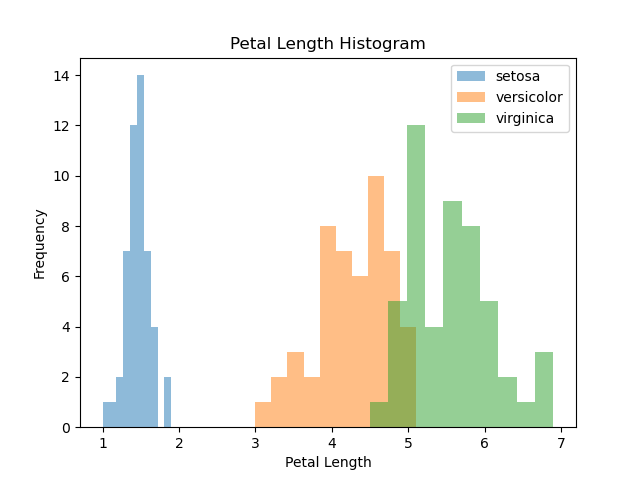
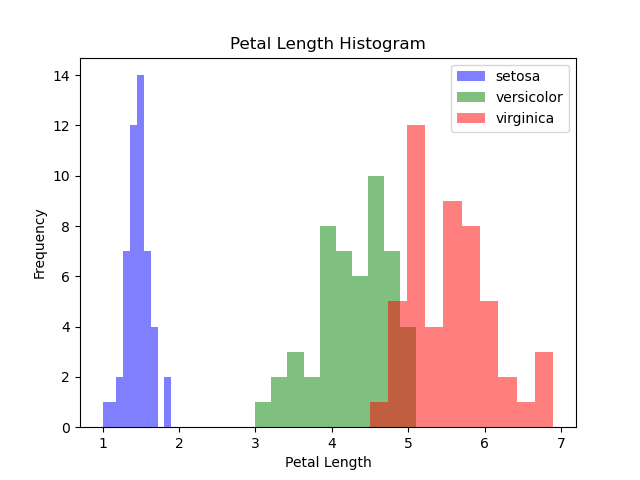
completing analysis

Changed region(s): [[0.375, 0.25, 0.875, 0.9062], [0.1562, 0.1562, 0.2812, 0.9062], [0.7188, 0.125, 0.7812, 0.2812]]

diff --git a/analysis.py b/analysis.py
@@ -47,9 +47,9 @@ versicolor = df[df['class'] == 'Iris-versicolor']['sepal_length']
 virginica = df[df['class'] == 'Iris-virginica']['sepal_length']
 
 # plot histogram
-plt.hist(setosa, alpha=0.5, label='setosa')
-plt.hist(versicolor, alpha=0.5, label='versicolor')
-plt.hist(virginica, alpha=0.5, label='virginica')
+plt.hist(setosa, color='blue', alpha=0.5, label='setosa')
+plt.hist(versicolor, color='green', alpha=0.5, label='versicolor')
+plt.hist(virginica, color='red', alpha=0.5, label='virginica')
 
 plt.legend(loc='upper right')
 plt.title('Sepal Length Histogram')
@@ -65,9 +65,9 @@ versicolor = df[df['class'] == 'Iris-versicolor']['sepal_width']
 virginica = df[df['class'] == 'Iris-virginica']['sepal_width']
 
 # plot histogram
-plt.hist(setosa, alpha=0.5, label='setosa')
-plt.hist(versicolor, alpha=0.5, label='versicolor')
-plt.hist(virginica, alpha=0.5, label='virginica')
+plt.hist(setosa, color='blue', alpha=0.5, label='setosa')
+plt.hist(versicolor, color='green', alpha=0.5, label='versicolor')
+plt.hist(virginica, color='red', alpha=0.5, label='virginica')
 
 plt.legend(loc='upper right')
 plt.title('Sepal Width Histogram')
@@ -84,9 +84,9 @@ versicolor = df[df['class'] == 'Iris-versicolor']['petal_length']
 virginica = df[df['class'] == 'Iris-virginica']['petal_length']
 
 # plot histogram
-plt.hist(setosa, alpha=0.5, label='setosa')
-plt.hist(versicolor, alpha=0.5, label='versicolor')
-plt.hist(virginica, alpha=0.5, label='virginica')
+plt.hist(setosa, color='blue', alpha=0.5, label='setosa')
+plt.hist(versicolor, color='green', alpha=0.5, label='versicolor')
+plt.hist(virginica, color='red', alpha=0.5, label='virginica')
 
 plt.legend(loc='upper right')
 plt.title('Petal Length Histogram')
@@ -103,9 +103,9 @@ versicolor = df[df['class'] == 'Iris-versicolor']['petal_width']
 virginica = df[df['class'] == 'Iris-virginica']['petal_width']
 
 # plot histogram
-plt.hist(setosa, alpha=0.5, label='setosa')
-plt.hist(versicolor, alpha=0.5, label='versicolor')
-plt.hist(virginica, alpha=0.5, label='virginica')
+plt.hist(setosa, color ='blue', alpha=0.5, label='setosa')
+plt.hist(versicolor, color='green', alpha=0.5, label='versicolor')
+plt.hist(virginica, color='red', alpha=0.5, label='virginica')
 
 plt.legend(loc='upper right')
 plt.title('Petal Width Histogram')
@@ -248,8 +248,15 @@ plt.legend(loc='upper right')
 
 plt.show()
 
-# Generating a pairwise scatter plot with Seaborn to achieve a global overview of all 6 combinations of the 2 dimensions graphs
+# Pairwise scatter plots generated with Seaborn to achieve a global overview of all 6 combinations of the 2 dimensions graphs
+# using a whitegrid pattern to establish a discrimination principle between iris virginica and iris versicolor
 
 sns.set_style("whitegrid")
-sns.pairplot(df, hue="class", height=1.5)
+sns.pairplot(df, hue="class", palette= ["blue","green","red"], markers=["o","s","*"], height=1.5)
 plt.show()
+
+# Scatter plot based on petal length and width show a weaker correlation between iris virginica and iris versicolor
+# Using measures on y, x axis and lines drawn on the above said scatterplot
+# we can build a simple model through if-else conditions to classify the flower types:
+# IF PETAL WIDTH IS ≤ TO 2 CM AND ≥ THAN 1 CM AND 
+# PETAL LENGTH IS ≤ THAN 5 AND ≥ THAN 2.5 CM THEN IS VERSICOLOR
